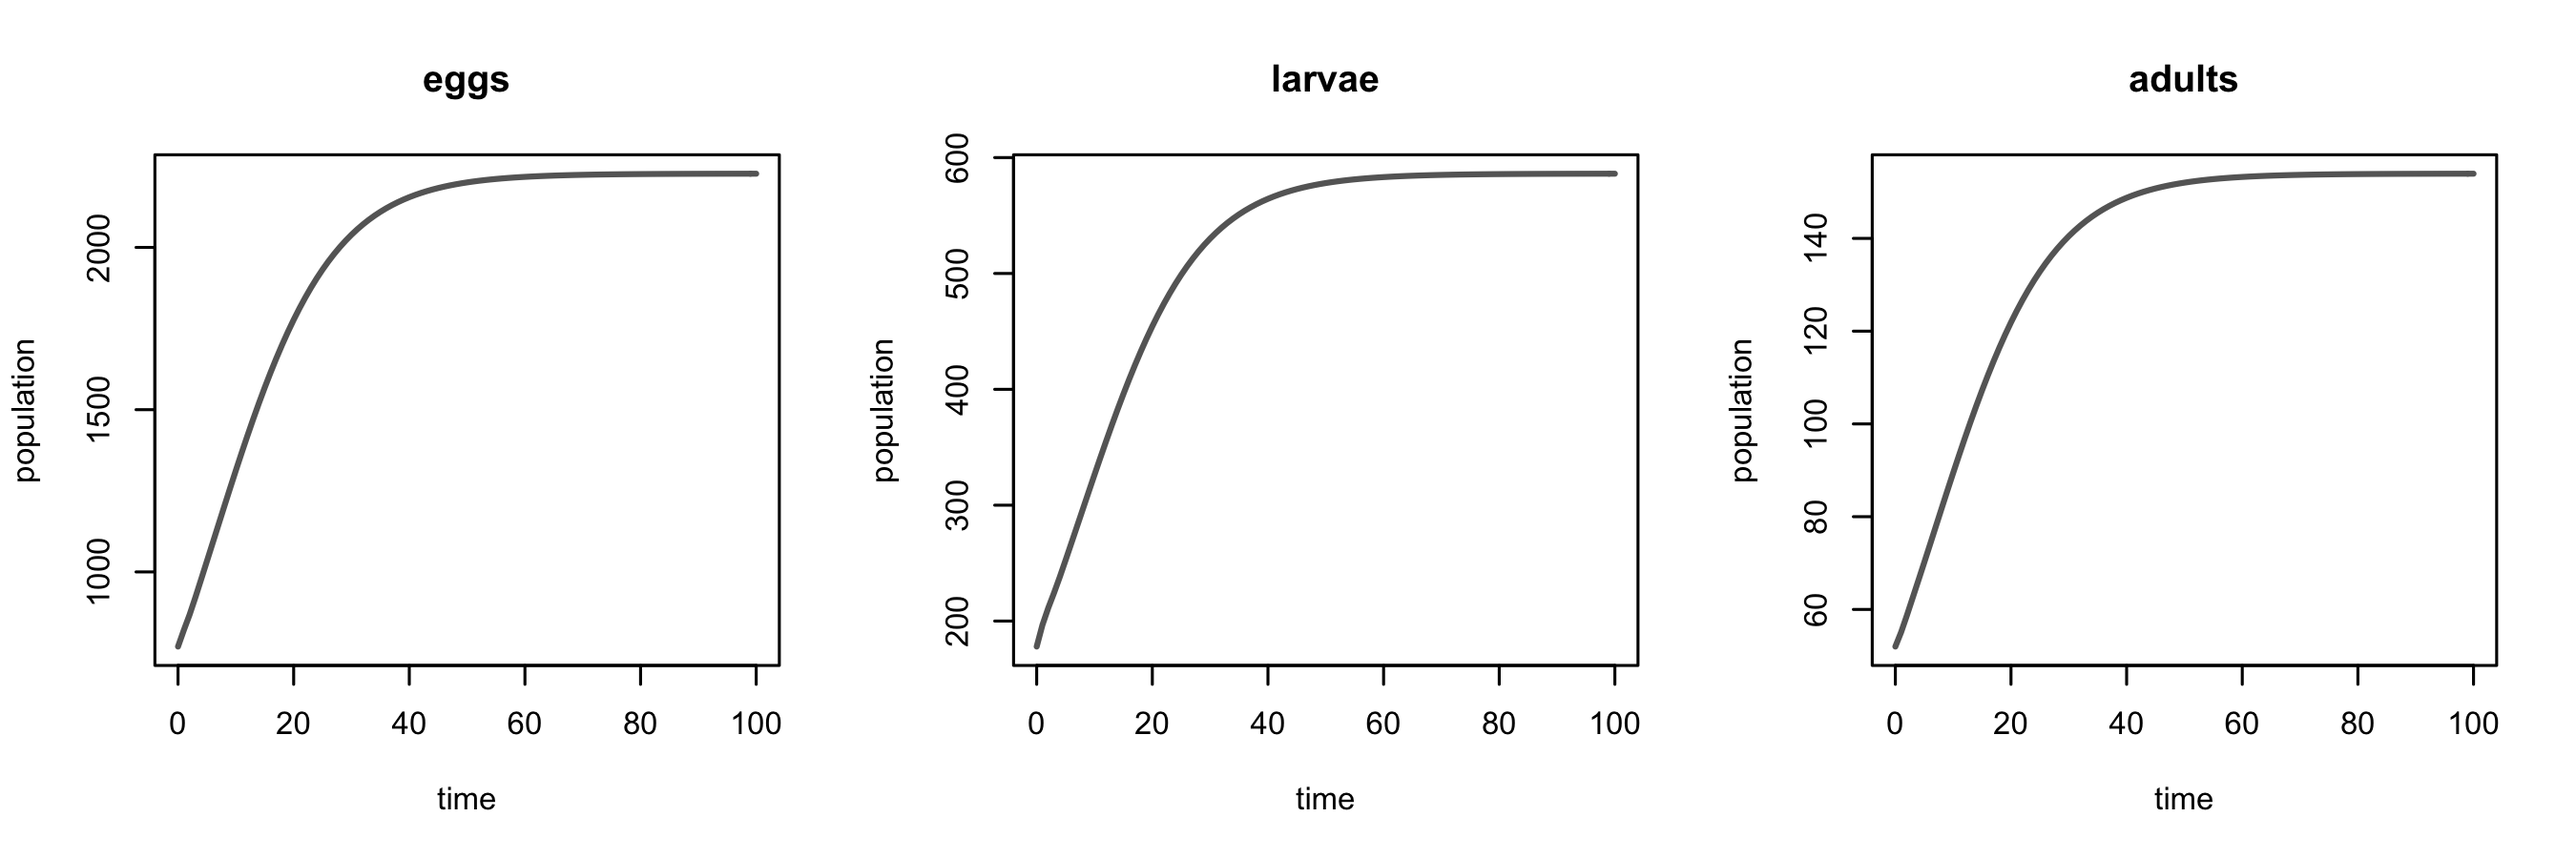
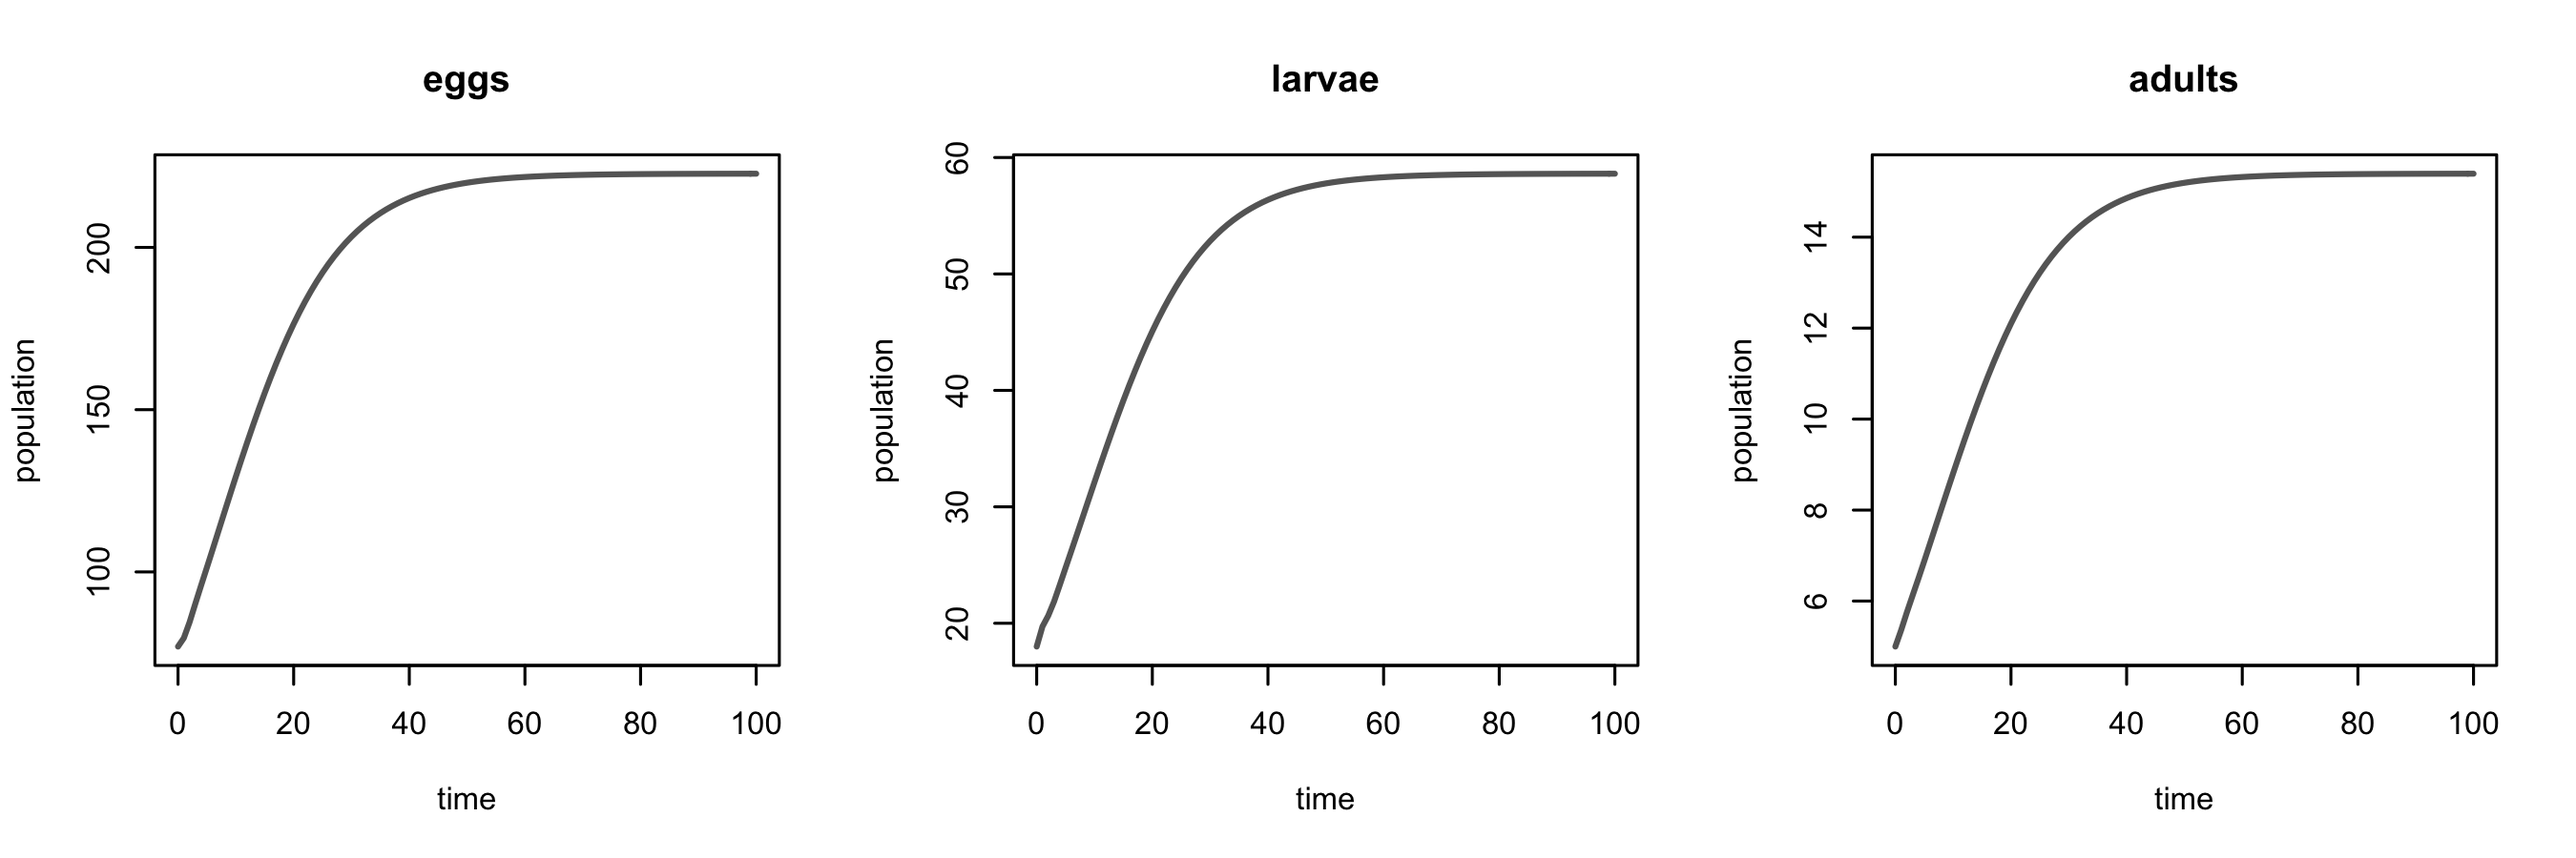
adding metapopulations to readme and tightening up intro

diff --git a/readme.md b/readme.md
@@ -5,9 +5,9 @@ pop
 
 [![Build Status](https://travis-ci.org/goldingn/pop.svg)](https://travis-ci.org/goldingn/pop) [![codecov.io](https://codecov.io/github/goldingn/pop/coverage.svg?branch=master)](https://codecov.io/github/goldingn/pop?branch=master) [![cran version](http://www.r-pkg.org/badges/version/pop)](https://cran.rstudio.com/web/packages/pop)
 
-Population dynamic models underpin a range of analyses and applications in ecology and epidemiology. The various approaches for fitting and analysing these models (MPMs, IPMs, ODEs, POMPs, PVA, with and without metapopulation structure) are generally fitted using different software, each with a different interface. This makes it difficult to combine various modelling approaches and data types to solve a given problem. pop aims to provide a flexible and easy to use common interface for constructing population dynamic models and enabling to them to be fitted and analysed in various ways.
+Population dynamic models underpin a range of analyses and applications in ecology and epidemiology. The various approaches for analysing population dynamics models (MPMs, IPMs, ODEs, POMPs, PVA) each require the model to be defined in a different way. This makes it difficult to combine different modelling approaches and data types to solve a given problem. `pop` aims to provide a flexible and easy to use common interface for constructing population dynamic models and enabling to them to be fitted and analysed in lots of different ways.
 
-This is a work in progress - so far you can only create simple dynamical models and not do very much with them. More will follow.
+This package is a work in progress. So far you can create stage-structured dynamical models, add density dependence and metapopulation structure, convert them to transition matrices and project them into the future, both stochastically and deterministically. Future developments will add continuous traits (for e.g. age- and size-structured models) and support for fitting these models against various data types.
 
 #### Installation
 
@@ -109,8 +109,8 @@ popbio::lambda(A)
     ## 0.77041868 0.17785915 0.05172217
 
 ``` r
-# get a reasonable initial population
-population <- round(ss * 1000)
+# get an initial population
+population <- round(ss * 100)
 
 # plot deterministic trajectory from this population
 par(mfrow = c(1, 3))
@@ -137,21 +137,19 @@ plot(sim)
 
 #### Density dependence
 
-`pop` now supports user-defined transition functions, where the parameter may depend on other things, like the population size, patch area or other environmental drivers.
-
-We can use this functionality to update the above simulation analysis with density-dependent adult survival (see `?as.transfun` for details on how to define bespoke transition functions):
+`pop` supports user-defined transition functions that depend on aspects of the landscape, like the population size, patch area or other environmental drivers. We can use this functionality to update the above simulation analysis with density-dependent adult survival (see `?as.transfun` for details on how to define bespoke transition functions):
 
 ``` r
 # density-dependent adult survival function (patch is a required argument)
 ddfun <- function (landscape) {
-  adult_density <- population(landscape, 'adults') / area(landscape)
+  adult_density <- population(landscape)$adults / area(landscape)$area
   param$p * exp(-adult_density / param$area)
 }
 
 # turn it into a transfun object
 dd <- as.transfun(ddfun,
                   param = list(p = 0.9,
-                               area = 1000),
+                               area = 100),
                   type = 'probability')
 
 # use it in a transition and update the dynamic
@@ -190,3 +188,81 @@ plot(proj_dd)
 ```
 
 ![](readme_files/figure-markdown_github/deterministic_dd-1.png)<!-- -->
+
+#### Metapopulation dynamics
+
+So far we have only looked at dynamics within a single population. `pop` also enables users to set up a metapopulation landscape on which to evaluate dynamics. Below we create a simple three-patch metapopulation and evaluate our density-dependent model on it.
+
+First we define and plot our metapopulation landscape. See `?landscape` for details for how to set up a landscape (more user-friendly methods will be available soon)
+
+``` r
+# set up the structure
+patches <- as.landscape(list(population = population(landscape(all_dd)),
+                             area = data.frame(area = c(0.2, 2, 5)),
+                             coordinates = data.frame(x = c(-3, 3, -2),
+                                                      y = c(-2, -1, 1)),
+                             features = features(landscape(all_dd))))
+
+# plot it
+par(mfrow = c(1, 2))
+symbols(x = patches[, 1],
+        y = patches[, 2],
+        circles = sqrt(patches[, 3] / pi),
+        xlim = c(-4, 4),
+        ylim = c(-3, 3),
+        fg = grey(0.4),
+        bg = grey(0.9),
+        xlab = 'x',
+        ylab = 'y',
+        inches = FALSE,
+        asp = 1)
+text(x = patches[, 1],
+     y = patches[, 2],
+     labels = 1:3)
+```
+
+![](readme_files/figure-markdown_github/define_metapop-1.png)<!-- -->
+
+Now we add an adult dispersal transition to the dynamic, add the landscape structure, and simulate starting with the same population of 100 individuals in all patches.
+
+``` r
+# 20% adults disperse & probability of moving to each patch decays exponentially 
+adult_dispersal <- tr(adults ~ adults, p(0.4) * d(1))
+
+# add this to the dynamic and assign the spatial structure
+all_dd_metapop <- dynamic(all_dd, adult_dispersal)
+landscape(all_dd_metapop) <- patches
+
+sim_dd_metapop <- simulation(dynamic = all_dd_metapop,
+                     population = population,
+                     timesteps = 100,
+                     replicates = 100)
+
+# and plot it
+par(mfrow = c(1, 3))
+plot(sim_dd_metapop, 'adults', patches = 1:3)
+```
+
+![](readme_files/figure-markdown_github/simulate_metapop-1.png)<!-- -->
+
+We can also see what happens when we tweak the model's transition parameters, such as making dispersal between patches much less likely
+
+``` r
+# set the dispersal probability low and see what happens
+param <- parameters(all_dd_metapop)
+param$adult_dispersal$p <- 0.001
+parameters(all_dd_metapop) <- param
+
+sim_dd_metapop2 <- simulation(dynamic = all_dd_metapop,
+                     population = population,
+                     timesteps = 100,
+                     replicates = 100)
+
+# and plot it
+par(mfrow = c(1, 3))
+plot(sim_dd_metapop2, 'adults', patches = 1:3)
+```
+
+![](readme_files/figure-markdown_github/simulate_metapop2-1.png)<!-- -->
+
+As before, we can also project this metapopulation deterministically, and extrat transition matrices to use in other software.
